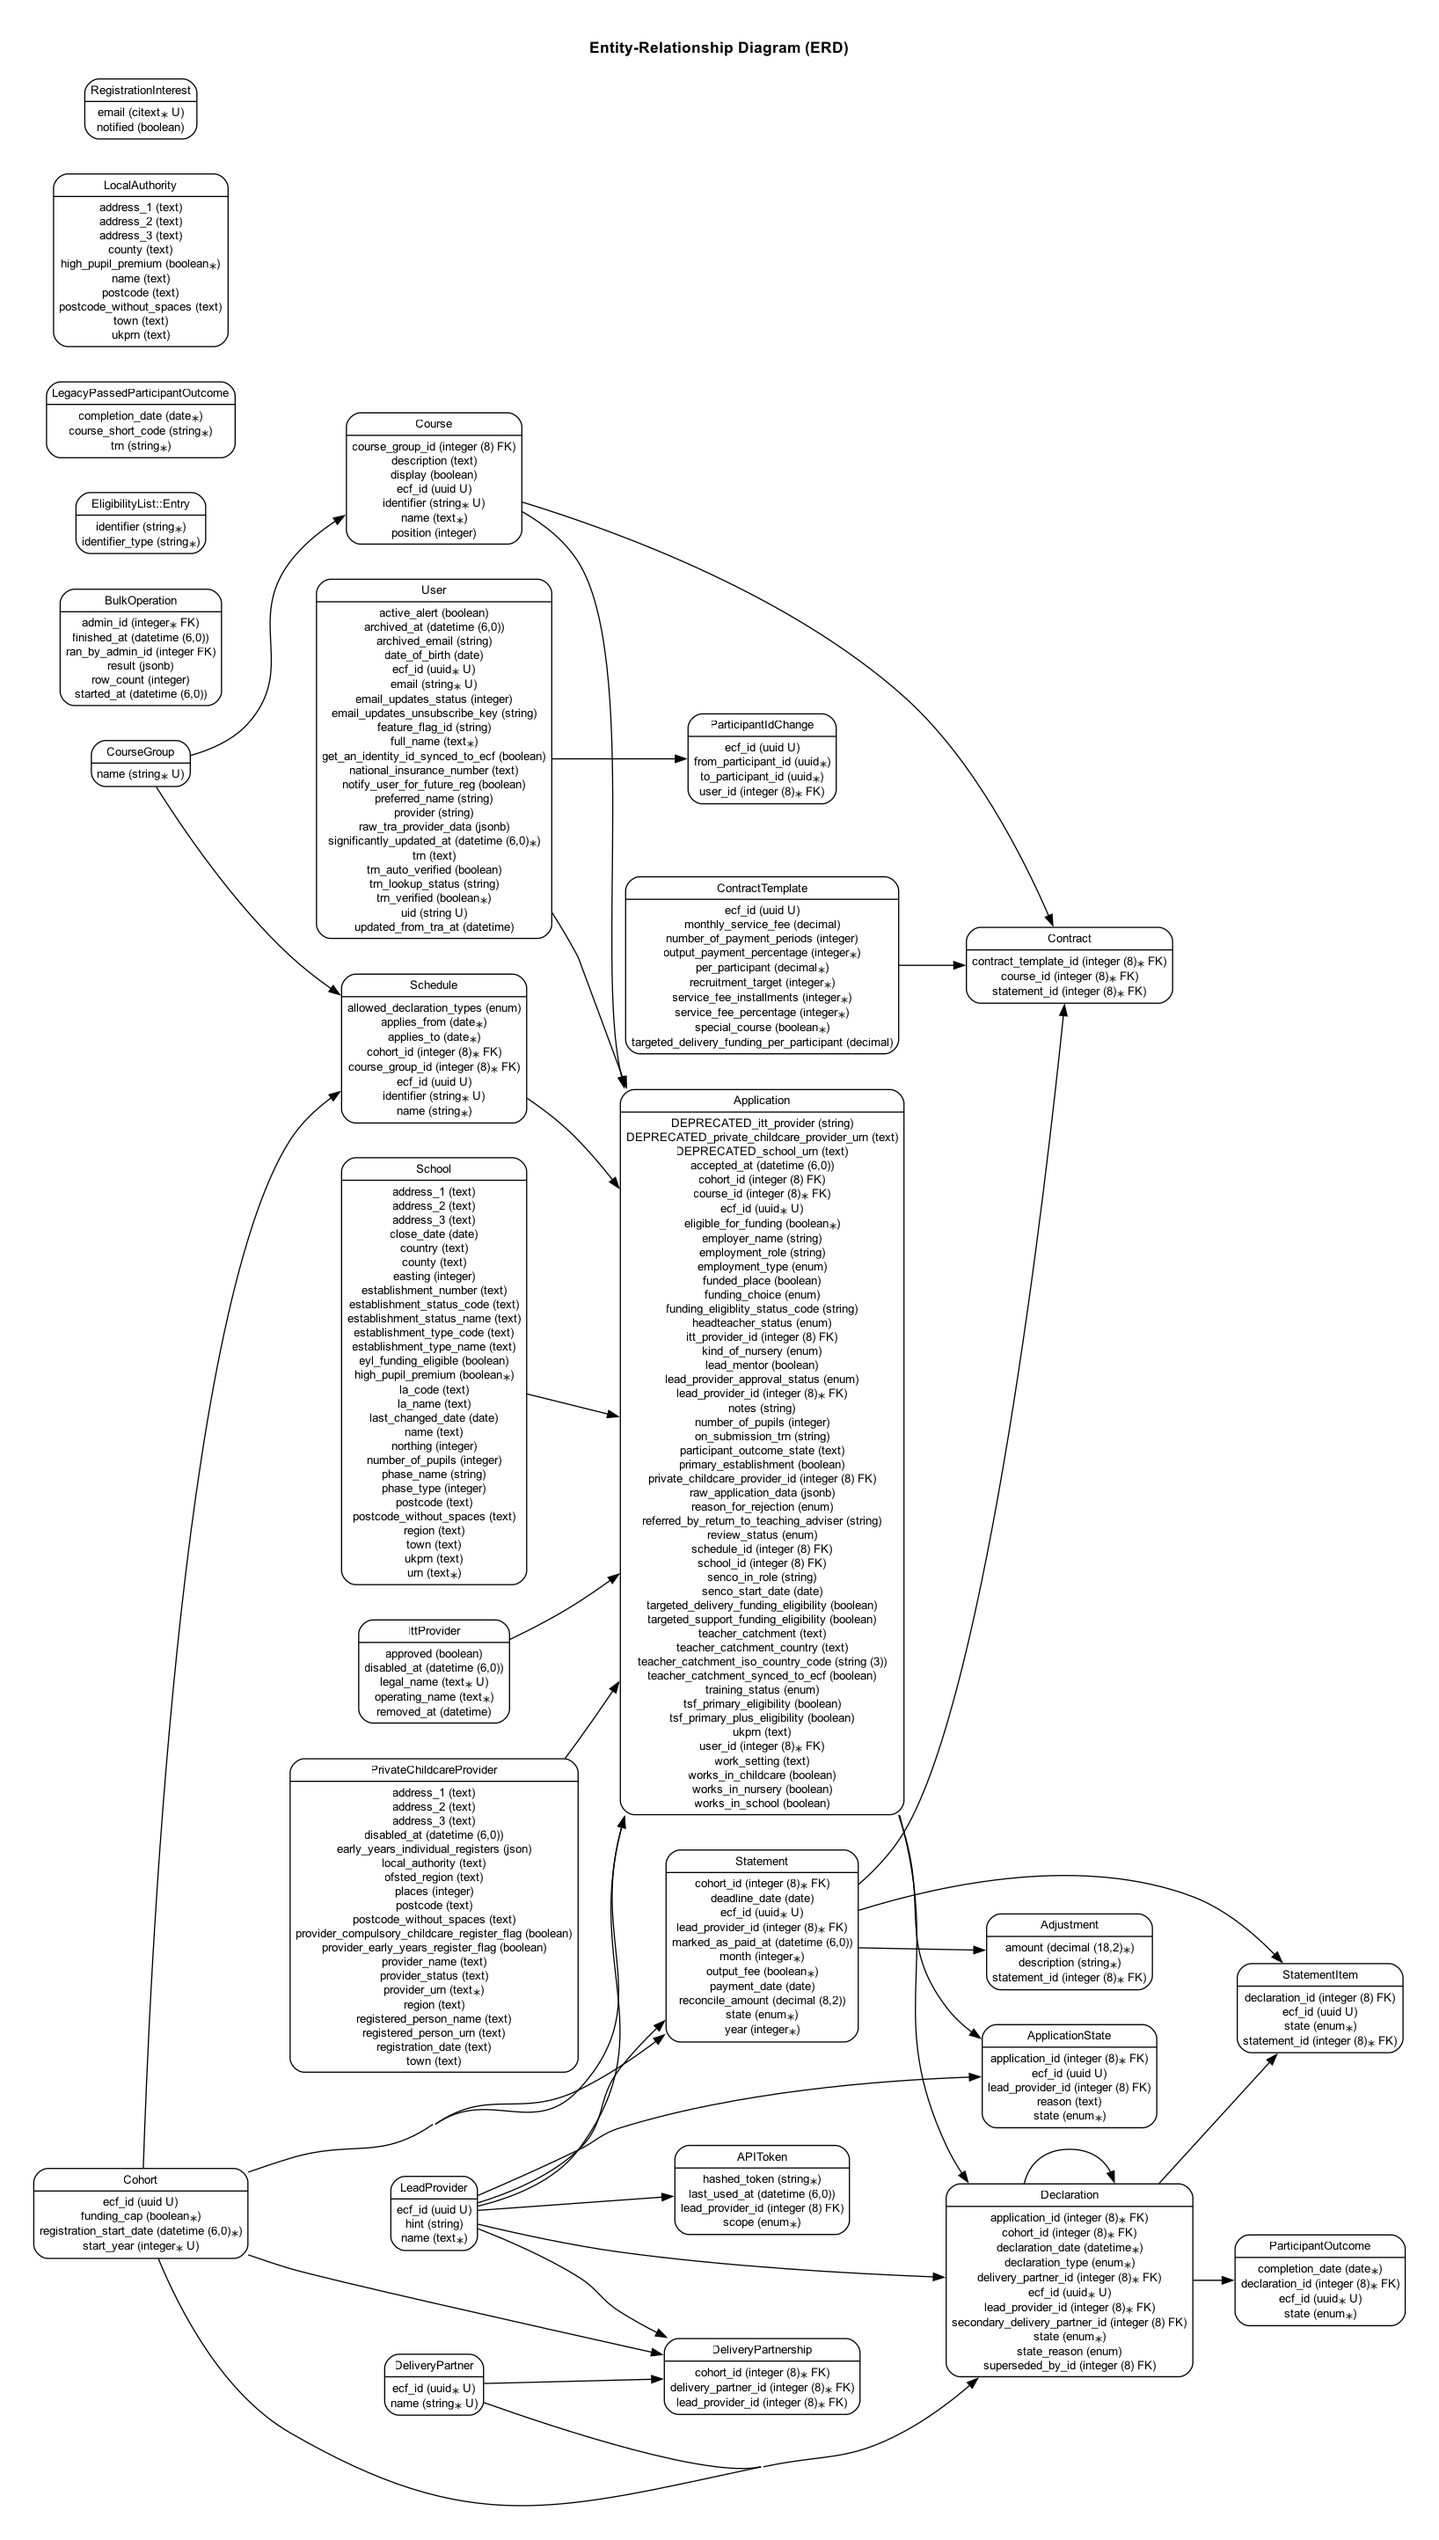
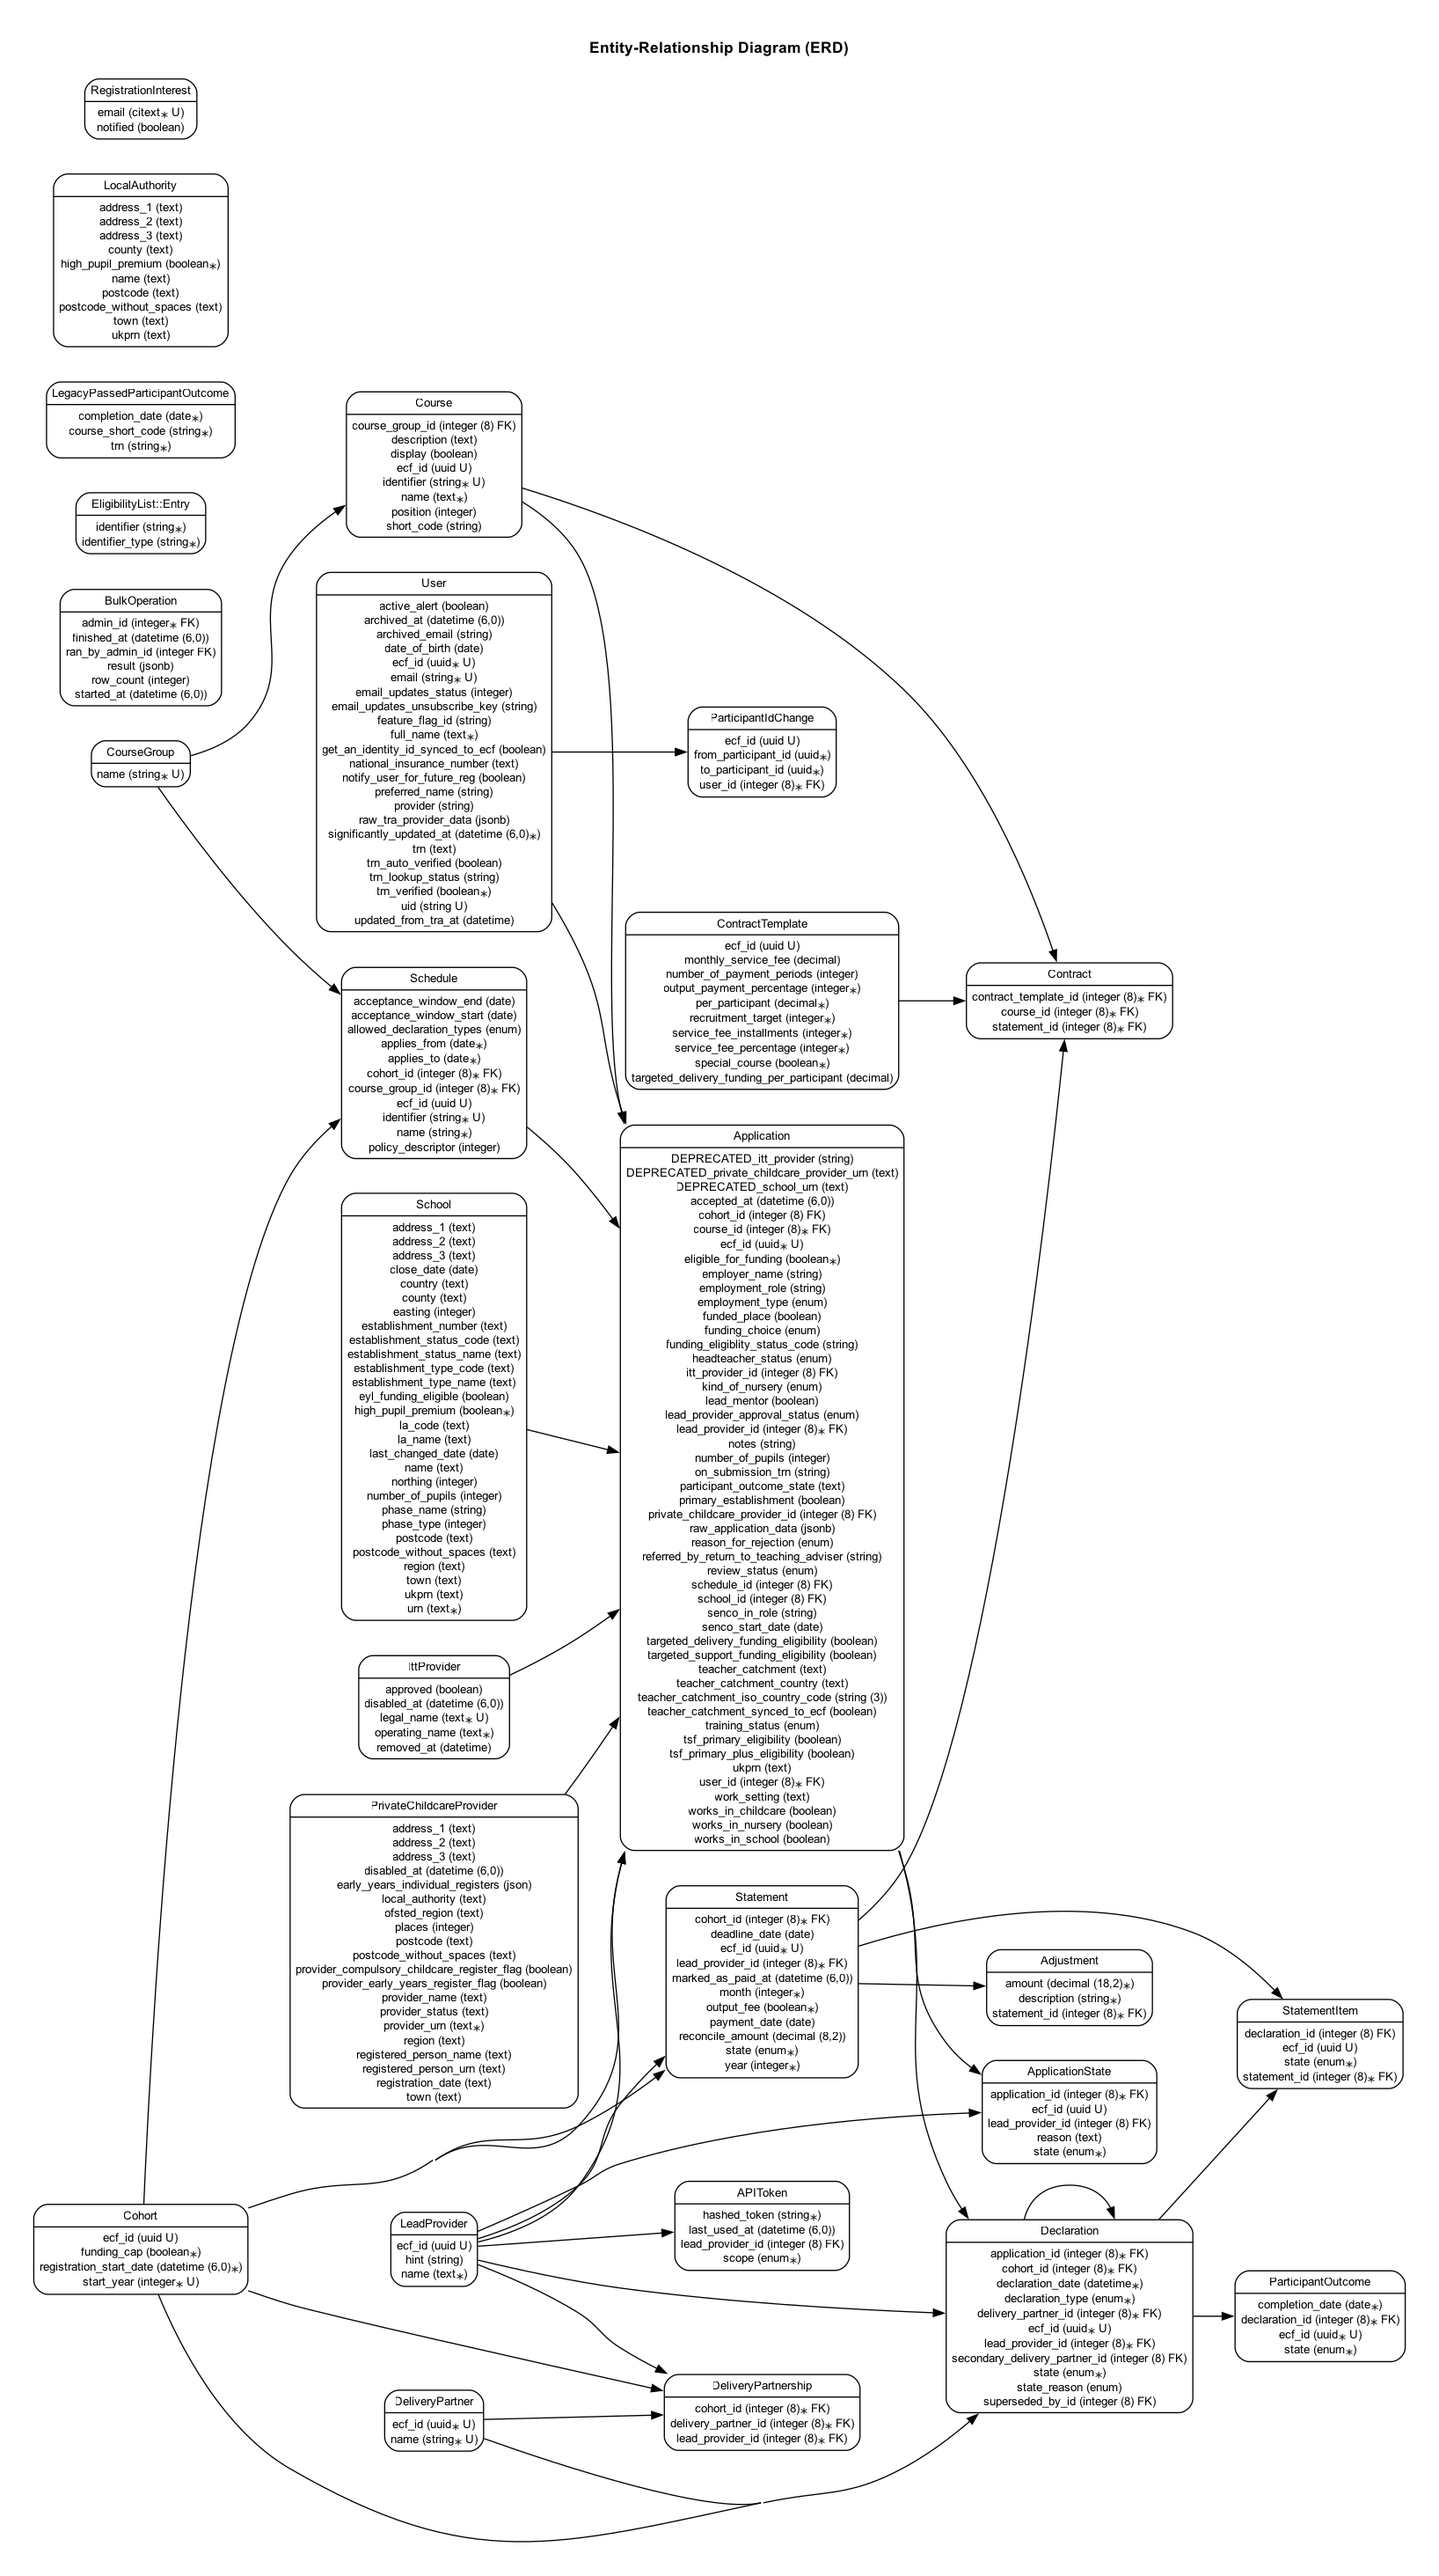
[NPQ-3343] new nullable fields on schedules

diff --git a/spec/features/npq_separation/admin/schedules_spec.rb b/spec/features/npq_separation/admin/schedules_spec.rb
@@ -13,7 +13,7 @@ RSpec.feature "Managing schedules", :ecf_api_disabled, :no_js, type: :feature do
   let!(:schedules) do
     [
       create(:schedule, :npq_ehco_december, cohort:),
-      create(:schedule, :npq_aso_december, cohort:, allowed_declaration_types: %w[started completed]),
+      create(:schedule, :npq_aso_december, cohort:, allowed_declaration_types: %w[started completed], policy_descriptor: 11),
     ]
   end
 
@@ -42,6 +42,7 @@ RSpec.feature "Managing schedules", :ecf_api_disabled, :no_js, type: :feature do
       expect(sl).to have_summary_item("Cohort", "2026 to 2027")
       expect(sl).to have_summary_item("Name", schedule.name)
       expect(sl).to have_summary_item("Identifier", schedule.identifier)
+      expect(sl).to have_summary_item("Policy descriptor", 11)
       expect(sl).to have_summary_item("Course group", schedule.course_group.name)
       expect(sl).to have_summary_item("Applies from", long_date(schedule.applies_from))
       expect(sl).to have_summary_item("Applies to", long_date(schedule.applies_to))
@@ -130,6 +131,7 @@ private
   def fill_in_schedule_form(course_group)
     fill_in "Name", with: "name"
     fill_in "Identifier", with: "identifier"
+    fill_in "Policy descriptor", with: "42"
     select course_group.name, from: "Course group"
 
     fieldsets = all("fieldset")
@@ -146,15 +148,30 @@ private
       fill_in "Year", with: "2026"
     end
 
+    within(fieldsets[2]) do
+      fill_in "Day", with: "5"
+      fill_in "Month", with: "6"
+      fill_in "Year", with: "2026"
+    end
+
+    within(fieldsets[3]) do
+      fill_in "Day", with: "7"
+      fill_in "Month", with: "8"
+      fill_in "Year", with: "2026"
+    end
+
     uncheck "retained-2", visible: :all
   end
 
   def expect_filled_in_schedule_attributes(schedule, course_group)
     expect(schedule.name).to eq("name")
     expect(schedule.identifier).to eq("identifier")
+    expect(schedule.policy_descriptor).to eq(42)
     expect(schedule.course_group).to eq(course_group)
     expect(schedule.applies_from).to eq(Date.new(2026, 2, 1))
     expect(schedule.applies_to).to eq(Date.new(2026, 4, 3))
+    expect(schedule.acceptance_window_start).to eq(Date.new(2026, 6, 5))
+    expect(schedule.acceptance_window_end).to eq(Date.new(2026, 8, 7))
     expect(schedule.allowed_declaration_types).to eq(%w[started retained-1 completed])
   end
 

diff --git a/app/controllers/npq_separation/admin/schedules_controller.rb b/app/controllers/npq_separation/admin/schedules_controller.rb
@@ -27,7 +27,7 @@ class NpqSeparation::Admin::SchedulesController < NpqSeparation::AdminController
   def update
     if @schedule.update(schedule_params)
       flash[:success] = "Schedule updated"
-      redirect_to npq_separation_admin_cohort_path(cohort)
+      redirect_to npq_separation_admin_cohort_schedule_path(cohort, @schedule)
     else
       render :form, status: :unprocessable_entity
     end
@@ -48,7 +48,17 @@ class NpqSeparation::Admin::SchedulesController < NpqSeparation::AdminController
 private
 
   def schedule_params
-    params.require(:schedule).permit(:course_group_id, :name, :identifier, :applies_from, :applies_to, allowed_declaration_types: [])
+    params.require(:schedule).permit(
+      :course_group_id,
+      :name,
+      :identifier,
+      :policy_descriptor,
+      :applies_from,
+      :applies_to,
+      :acceptance_window_start,
+      :acceptance_window_end,
+      allowed_declaration_types: [],
+    )
   end
 
   def schedule

diff --git a/db/schema.rb b/db/schema.rb
@@ -10,7 +10,7 @@
 #
 # It's strongly recommended that you check this file into your version control system.
 
-ActiveRecord::Schema[7.2].define(version: 2025_10_02_113306) do
+ActiveRecord::Schema[7.2].define(version: 2025_11_28_113435) do
   # These are extensions that must be enabled in order to support this database
   enable_extension "btree_gin"
   enable_extension "citext"
@@ -499,6 +499,9 @@ ActiveRecord::Schema[7.2].define(version: 2025_10_02_113306) do
     t.datetime "created_at", null: false
     t.datetime "updated_at", null: false
     t.uuid "ecf_id"
+    t.integer "policy_descriptor"
+    t.date "acceptance_window_start"
+    t.date "acceptance_window_end"
     t.index ["cohort_id"], name: "index_schedules_on_cohort_id"
     t.index ["course_group_id"], name: "index_schedules_on_course_group_id"
     t.index ["ecf_id"], name: "index_schedules_on_ecf_id", unique: true

diff --git a/spec/requests/npq_separation/admin/schedules_controller_spec.rb b/spec/requests/npq_separation/admin/schedules_controller_spec.rb
@@ -51,7 +51,7 @@ RSpec.describe NpqSeparation::Admin::SchedulesController, :ecf_api_disabled, typ
     describe "#update" do
       before { patch npq_separation_admin_cohort_schedule_path(cohort, schedule), params: valid_params }
 
-      it { is_expected.to redirect_to npq_separation_admin_cohort_path(cohort) }
+      it { is_expected.to redirect_to npq_separation_admin_cohort_schedule_path(cohort, schedule) }
 
       it "flashes success" do
         expect(flash[:success]).to match(/Schedule updated/i)

diff --git a/db/migrate/20251128113435_add_policy_descriptor_and_acceptance_dates_to_schedules.rb b/db/migrate/20251128113435_add_policy_descriptor_and_acceptance_dates_to_schedules.rb
@@ -1,0 +1,7 @@
+class AddPolicyDescriptorAndAcceptanceDatesToSchedules < ActiveRecord::Migration[7.2]
+  def change
+    add_column :schedules, :policy_descriptor, :integer
+    add_column :schedules, :acceptance_window_start, :date
+    add_column :schedules, :acceptance_window_end, :date
+  end
+end
